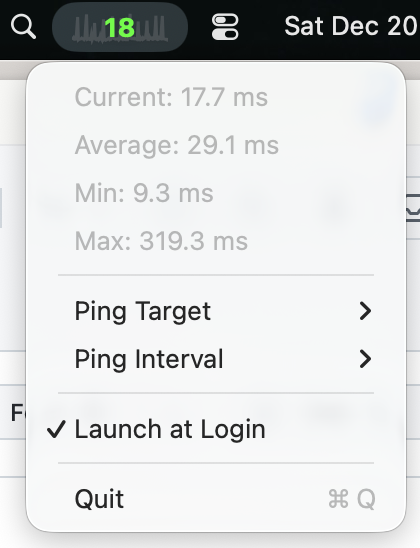
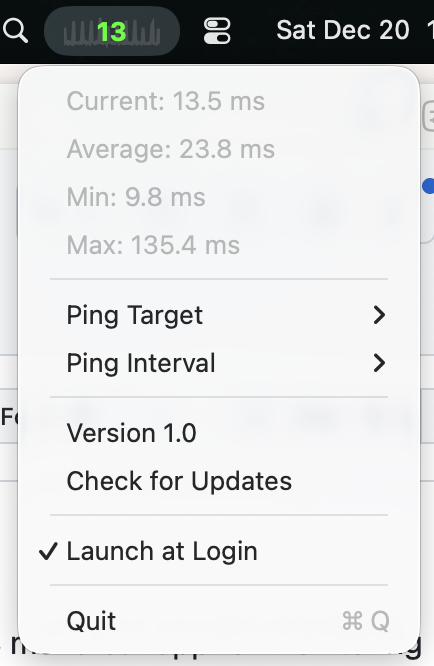
Add update checker with automatic version checking
- Add UpdateChecker.swift for GitHub release version checking
- Update AppDelegate to integrate version checking and display
- Add "Check for Updates" menu item for manual checks
- Add clickable version menu item that opens releases page
- Automatic update checks on launch (throttled to 1 hour) and every 4 hours
- Fix repository URL to dvdpearson/IsItMe

diff --git a/IsItMe/AppDelegate.swift b/IsItMe/AppDelegate.swift
@@ -8,6 +8,9 @@ class AppDelegate: NSObject, NSApplicationDelegate {
     private var autoStartMenuItem: NSMenuItem!
     private var latencyHistory: [Double?] = [] // Store last 2 minutes of readings
     private let maxHistoryCount = 120 // 2 minutes at 1 second intervals
+    private var updateCheckTimer: Timer?
+    private var lastUpdateInfo: UpdateChecker.UpdateInfo?
+    private let updateCheckInterval: TimeInterval = 4 * 60 * 60 // 4 hours
     private var pingTarget: String {
         get { UserDefaults.standard.string(forKey: "PingTarget") ?? "1.1.1.1" }
         set { UserDefaults.standard.set(newValue, forKey: "PingTarget") }
@@ -15,6 +18,10 @@ class AppDelegate: NSObject, NSApplicationDelegate {
     private var pingInterval: TimeInterval {
         get { UserDefaults.standard.double(forKey: "PingInterval") != 0 ? UserDefaults.standard.double(forKey: "PingInterval") : 1.0 }
         set { UserDefaults.standard.set(newValue, forKey: "PingInterval") }
+    }
+    private var lastUpdateCheckTime: Date? {
+        get { UserDefaults.standard.object(forKey: "LastUpdateCheckTime") as? Date }
+        set { UserDefaults.standard.set(newValue, forKey: "LastUpdateCheckTime") }
     }
 
     func applicationDidFinishLaunching(_ notification: Notification) {
@@ -33,6 +40,8 @@ class AppDelegate: NSObject, NSApplicationDelegate {
 
         createMenu()
         startPinging()
+        checkForUpdatesOnLaunch()
+        startUpdateCheckTimer()
     }
 
     private func createMenu() {
@@ -112,6 +121,27 @@ class AppDelegate: NSObject, NSApplicationDelegate {
 
         pingIntervalItem.submenu = pingIntervalMenu
         menu.addItem(pingIntervalItem)
+
+        menu.addItem(NSMenuItem.separator())
+
+        // Version info (clickable to open releases)
+        let versionItem = NSMenuItem(
+            title: "Version \(getCurrentVersion() ?? "1.0")",
+            action: #selector(openReleasePage),
+            keyEquivalent: ""
+        )
+        versionItem.tag = 100
+        versionItem.target = self
+        menu.addItem(versionItem)
+
+        // Manual update check
+        let updateCheckItem = NSMenuItem(
+            title: "Check for Updates",
+            action: #selector(manualUpdateCheck),
+            keyEquivalent: ""
+        )
+        updateCheckItem.target = self
+        menu.addItem(updateCheckItem)
 
         menu.addItem(NSMenuItem.separator())
 
@@ -234,7 +264,7 @@ class AppDelegate: NSObject, NSApplicationDelegate {
 
         image.lockFocus()
 
-        guard let context = NSGraphicsContext.current?.cgContext else {
+        guard NSGraphicsContext.current?.cgContext != nil else {
             image.unlockFocus()
             return image
         }
@@ -417,6 +447,107 @@ class AppDelegate: NSObject, NSApplicationDelegate {
 
     func applicationWillTerminate(_ notification: Notification) {
         timer?.invalidate()
+        updateCheckTimer?.invalidate()
+    }
+
+    private func checkForUpdatesOnLaunch() {
+        // Throttle: only check if last check > 1 hour ago
+        if let lastCheck = lastUpdateCheckTime,
+           Date().timeIntervalSince(lastCheck) < 3600 {
+            return
+        }
+        performUpdateCheck()
+    }
+
+    private func startUpdateCheckTimer() {
+        updateCheckTimer = Timer.scheduledTimer(
+            withTimeInterval: updateCheckInterval,
+            repeats: true
+        ) { [weak self] _ in
+            self?.performUpdateCheck()
+        }
+    }
+
+    private func performUpdateCheck() {
+        guard let version = getCurrentVersion() else { return }
+
+        UpdateChecker.checkForUpdates(currentVersion: version) { [weak self] updateInfo in
+            DispatchQueue.main.async {
+                self?.lastUpdateInfo = updateInfo
+                self?.lastUpdateCheckTime = Date()
+                self?.updateVersionMenuItem()
+            }
+        }
+    }
+
+    @objc private func manualUpdateCheck() {
+        guard let version = getCurrentVersion() else { return }
+
+        UpdateChecker.checkForUpdates(currentVersion: version) { [weak self] updateInfo in
+            DispatchQueue.main.async {
+                self?.lastUpdateInfo = updateInfo
+                self?.lastUpdateCheckTime = Date()
+                self?.updateVersionMenuItem()
+
+                // Show notification about update status
+                let alert = NSAlert()
+                if let info = updateInfo {
+                    if info.isUpdateAvailable {
+                        alert.messageText = "Update Available"
+                        alert.informativeText = "Version \(info.latestVersion) is available. Click OK to view the release."
+                        alert.alertStyle = .informational
+                        alert.addButton(withTitle: "OK")
+                        alert.addButton(withTitle: "Cancel")
+
+                        if alert.runModal() == .alertFirstButtonReturn {
+                            if let url = URL(string: info.releaseURL) {
+                                NSWorkspace.shared.open(url)
+                            }
+                        }
+                    } else {
+                        alert.messageText = "You're Up to Date"
+                        alert.informativeText = "You have the latest version (\(version)) installed."
+                        alert.alertStyle = .informational
+                        alert.addButton(withTitle: "OK")
+                        alert.runModal()
+                    }
+                } else {
+                    alert.messageText = "Update Check Failed"
+                    alert.informativeText = "Unable to check for updates. Please check your internet connection and try again."
+                    alert.alertStyle = .warning
+                    alert.addButton(withTitle: "OK")
+                    alert.runModal()
+                }
+            }
+        }
+    }
+
+    @objc private func openReleasePage() {
+        let urlString = lastUpdateInfo?.releaseURL ?? "https://github.com/dvdpearson/IsItMe/releases"
+        if let url = URL(string: urlString) {
+            NSWorkspace.shared.open(url)
+        }
+    }
+
+    private func getCurrentVersion() -> String? {
+        Bundle.main.object(forInfoDictionaryKey: "CFBundleShortVersionString") as? String
+    }
+
+    private func updateVersionMenuItem() {
+        guard let menu = statusItem.menu else { return }
+
+        let versionItem = menu.item(withTag: 100)
+        guard let version = getCurrentVersion() else { return }
+
+        if let updateInfo = lastUpdateInfo {
+            if updateInfo.isUpdateAvailable {
+                versionItem?.title = "Update Available (v\(updateInfo.latestVersion))"
+            } else {
+                versionItem?.title = "Version \(version) (up to date)"
+            }
+        } else {
+            versionItem?.title = "Version \(version)"
+        }
     }
 }
 

diff --git a/IsItMe/UpdateChecker.swift b/IsItMe/UpdateChecker.swift
@@ -1,0 +1,71 @@
+import Foundation
+
+class UpdateChecker {
+    struct Release: Codable {
+        let tag_name: String
+        let html_url: String
+    }
+
+    struct UpdateInfo {
+        let latestVersion: String
+        let releaseURL: String
+        let isUpdateAvailable: Bool
+    }
+
+    static func checkForUpdates(currentVersion: String, completion: @escaping (UpdateInfo?) -> Void) {
+        DispatchQueue.global(qos: .utility).async {
+            guard let url = URL(string: "https://api.github.com/repos/dvdpearson/IsItMe/releases/latest") else {
+                completion(nil)
+                return
+            }
+
+            var request = URLRequest(url: url)
+            request.setValue("IsItMe/\(currentVersion)", forHTTPHeaderField: "User-Agent")
+            request.timeoutInterval = 10
+            request.cachePolicy = .reloadIgnoringLocalCacheData
+
+            let task = URLSession.shared.dataTask(with: request) { data, response, error in
+                guard error == nil,
+                      let data = data,
+                      let release = try? JSONDecoder().decode(Release.self, from: data) else {
+                    completion(nil)
+                    return
+                }
+
+                let latestVersion = release.tag_name.trimmingCharacters(in: CharacterSet(charactersIn: "v"))
+                let isUpdateAvailable = compareVersions(current: currentVersion, latest: latestVersion)
+
+                let updateInfo = UpdateInfo(
+                    latestVersion: latestVersion,
+                    releaseURL: release.html_url,
+                    isUpdateAvailable: isUpdateAvailable
+                )
+
+                completion(updateInfo)
+            }
+
+            task.resume()
+        }
+    }
+
+    private static func compareVersions(current: String, latest: String) -> Bool {
+        let currentComponents = current.split(separator: ".").compactMap { Int($0) }
+        let latestComponents = latest.split(separator: ".").compactMap { Int($0) }
+
+        let maxLength = max(currentComponents.count, latestComponents.count)
+
+        for i in 0..<maxLength {
+            let currentValue = i < currentComponents.count ? currentComponents[i] : 0
+            let latestValue = i < latestComponents.count ? latestComponents[i] : 0
+
+            if latestValue > currentValue {
+                return true
+            }
+            if latestValue < currentValue {
+                return false
+            }
+        }
+
+        return false
+    }
+}
